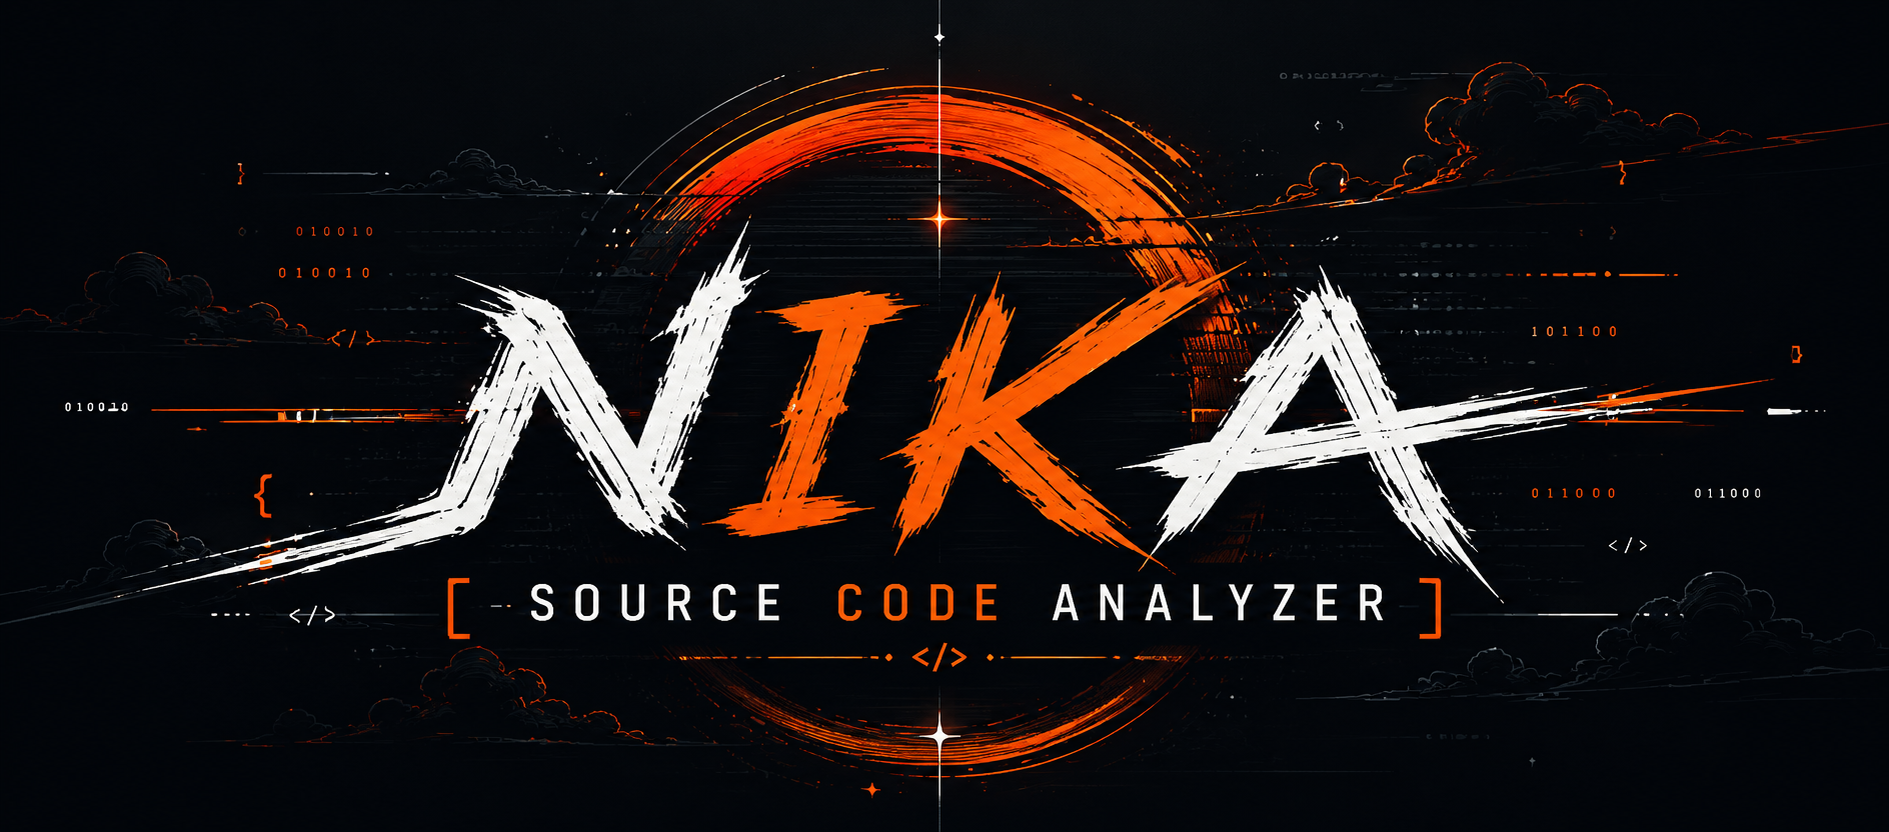
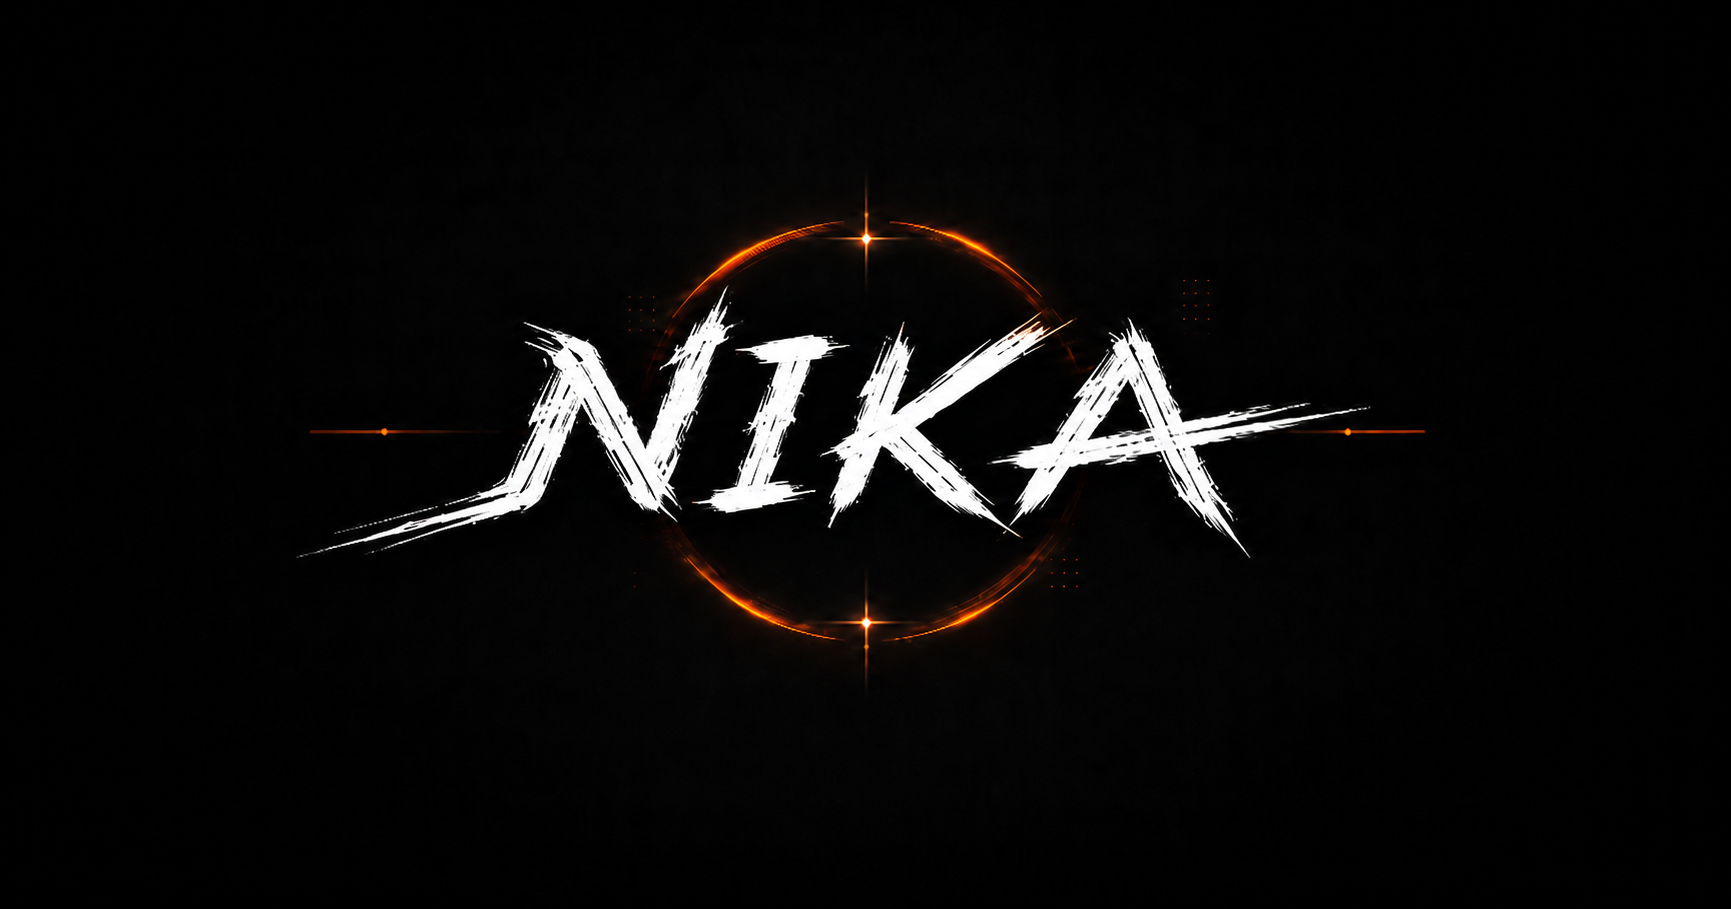
chore: update readme

diff --git a/README.md b/README.md
@@ -4,9 +4,9 @@
 
 <div align="center">
 
-### Catch vulnerabilities that hide across files.
+### Automated security code scanning featuring optional AI exploitability analysis.
 
-<em>A free, open-source Java SAST that traces untrusted data from source to sink across files.</em>
+<em>One of the **FIRST** open-source secure code scanners with cross-file taint analysis for Java micro-services.</em>
 
 <br/>
 
@@ -29,8 +29,21 @@
 
 </div>
 
+> [!Fun Fact]
+> The name Nika actually comes from the anime One Piece.
+
+
 
 Nika is an open-source source code review and static analysis tool for security engineers who need to identify exploit paths in Java microservices. It performs cross-file taint analysis to trace attacker-controlled input across application layers and determine whether that input reaches a security-sensitive sink.
+
+### Key Capabilities
+
+- **Cross-file taint analysis**
+- **AI exploitability analysis**
+- **Branch-aware scanning**
+- **Customizable rules**
+
+![Nika SAST report preview](assets/nika-report-preview.png)
 
 ## Why Nika
 